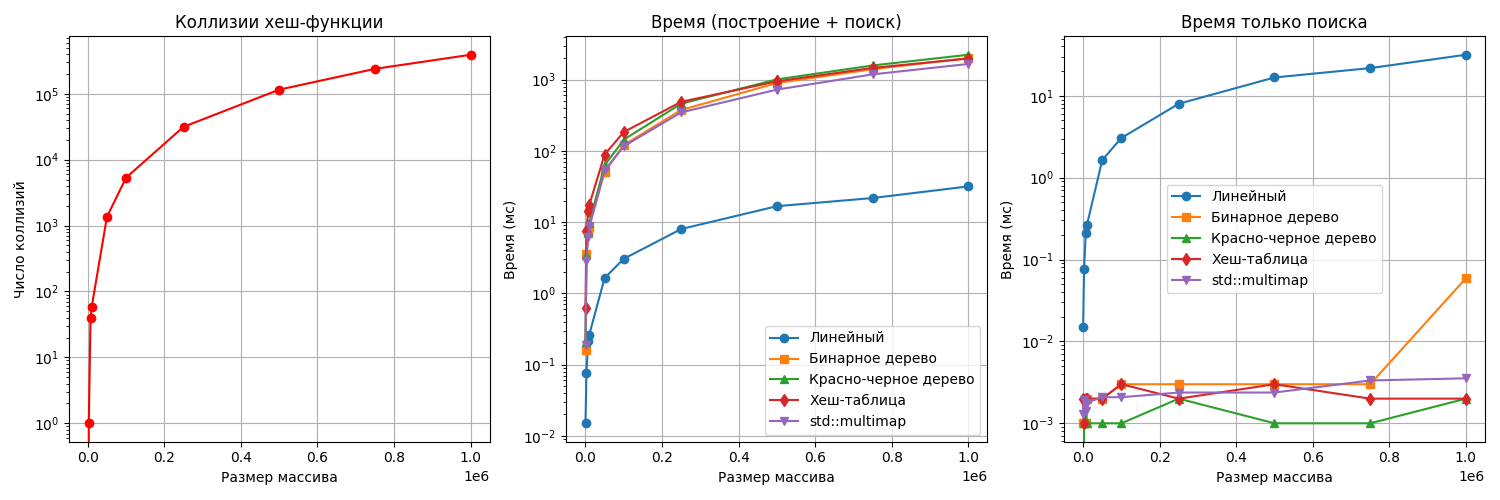
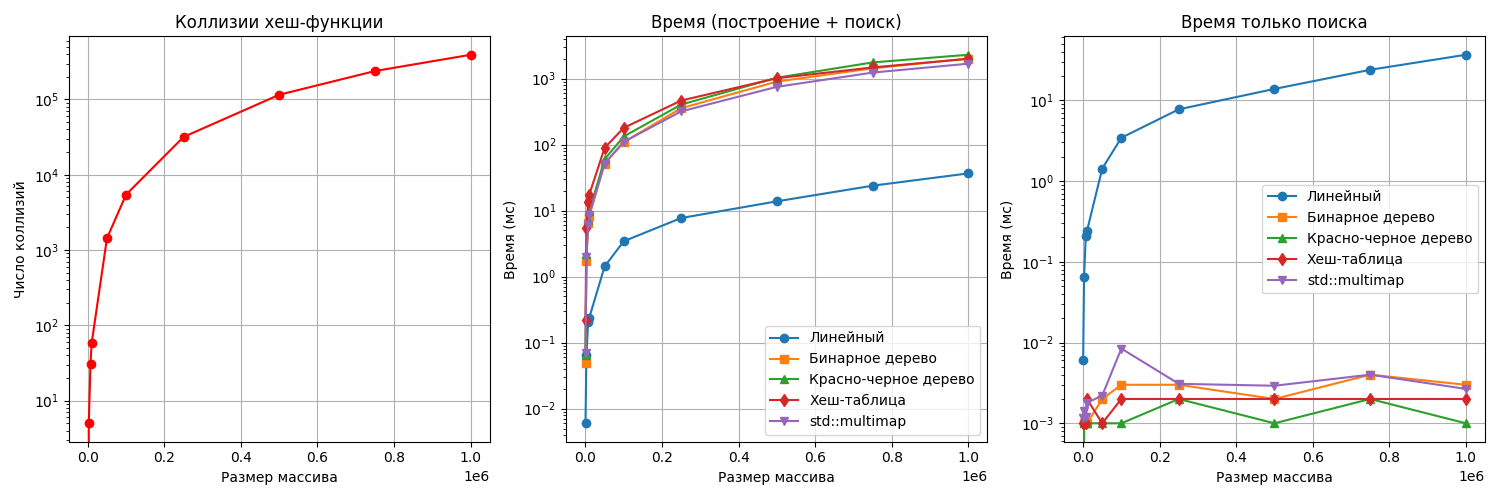
fix

diff --git a/search.cpp b/search.cpp
@@ -135,7 +135,7 @@ void fix_time_with_fill(const string& filename) {
   fout << "Поиск с помощью бинарного дерева:\t\t" << tree_total / 1000.0
        << " мс" << endl;
 
-  hash_table table(prime * 3);
+  hash_table table(prime);
   auto start_hash = chrono::high_resolution_clock::now();
   fill_table(&table, flats, size1);
   flat* find_hash = table.find(key, size2);
@@ -223,7 +223,7 @@ void fix_time_no_fill(const string& filename) {
   fout << "Поиск с помощью бинарного дерева:\t\t" << tree_total / 1000.0
        << " мс" << endl;
 
-  hash_table table(prime * 3);
+  hash_table table(prime);
   fill_table(&table, flats, size1);
   auto start_hash = chrono::high_resolution_clock::now();
   flat* find_hash = table.find(key, size2);
